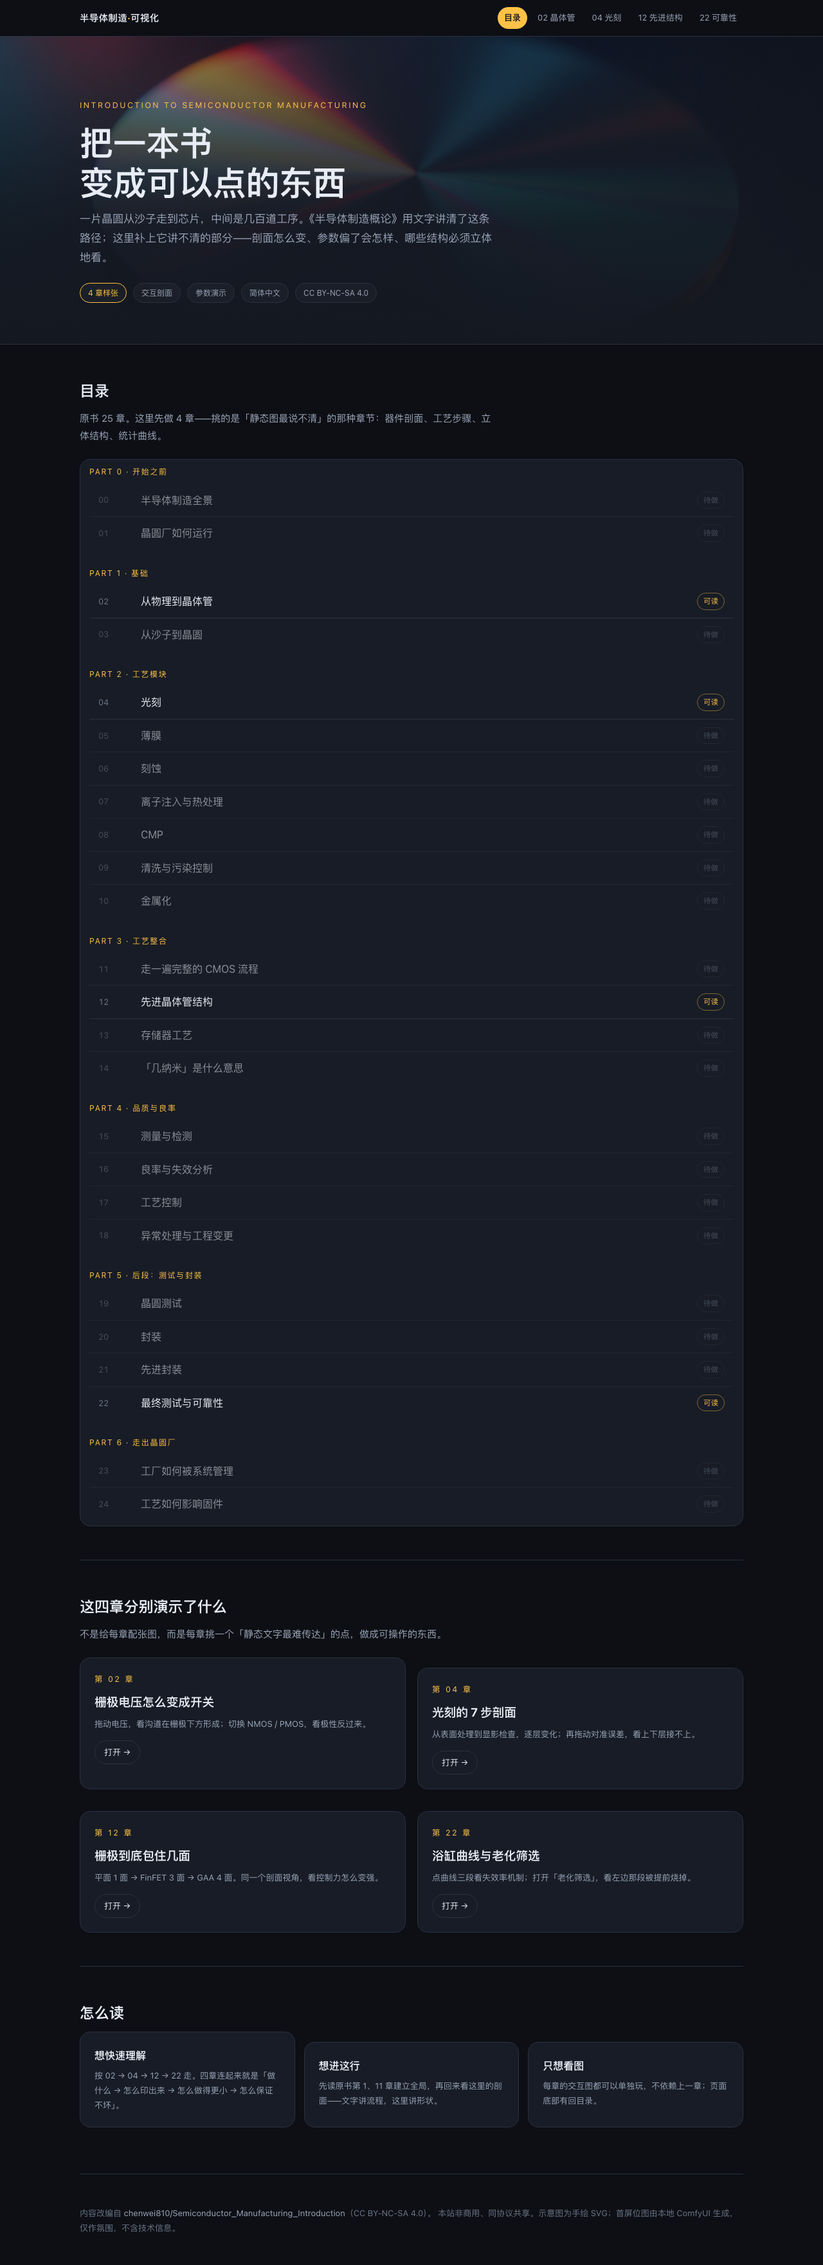
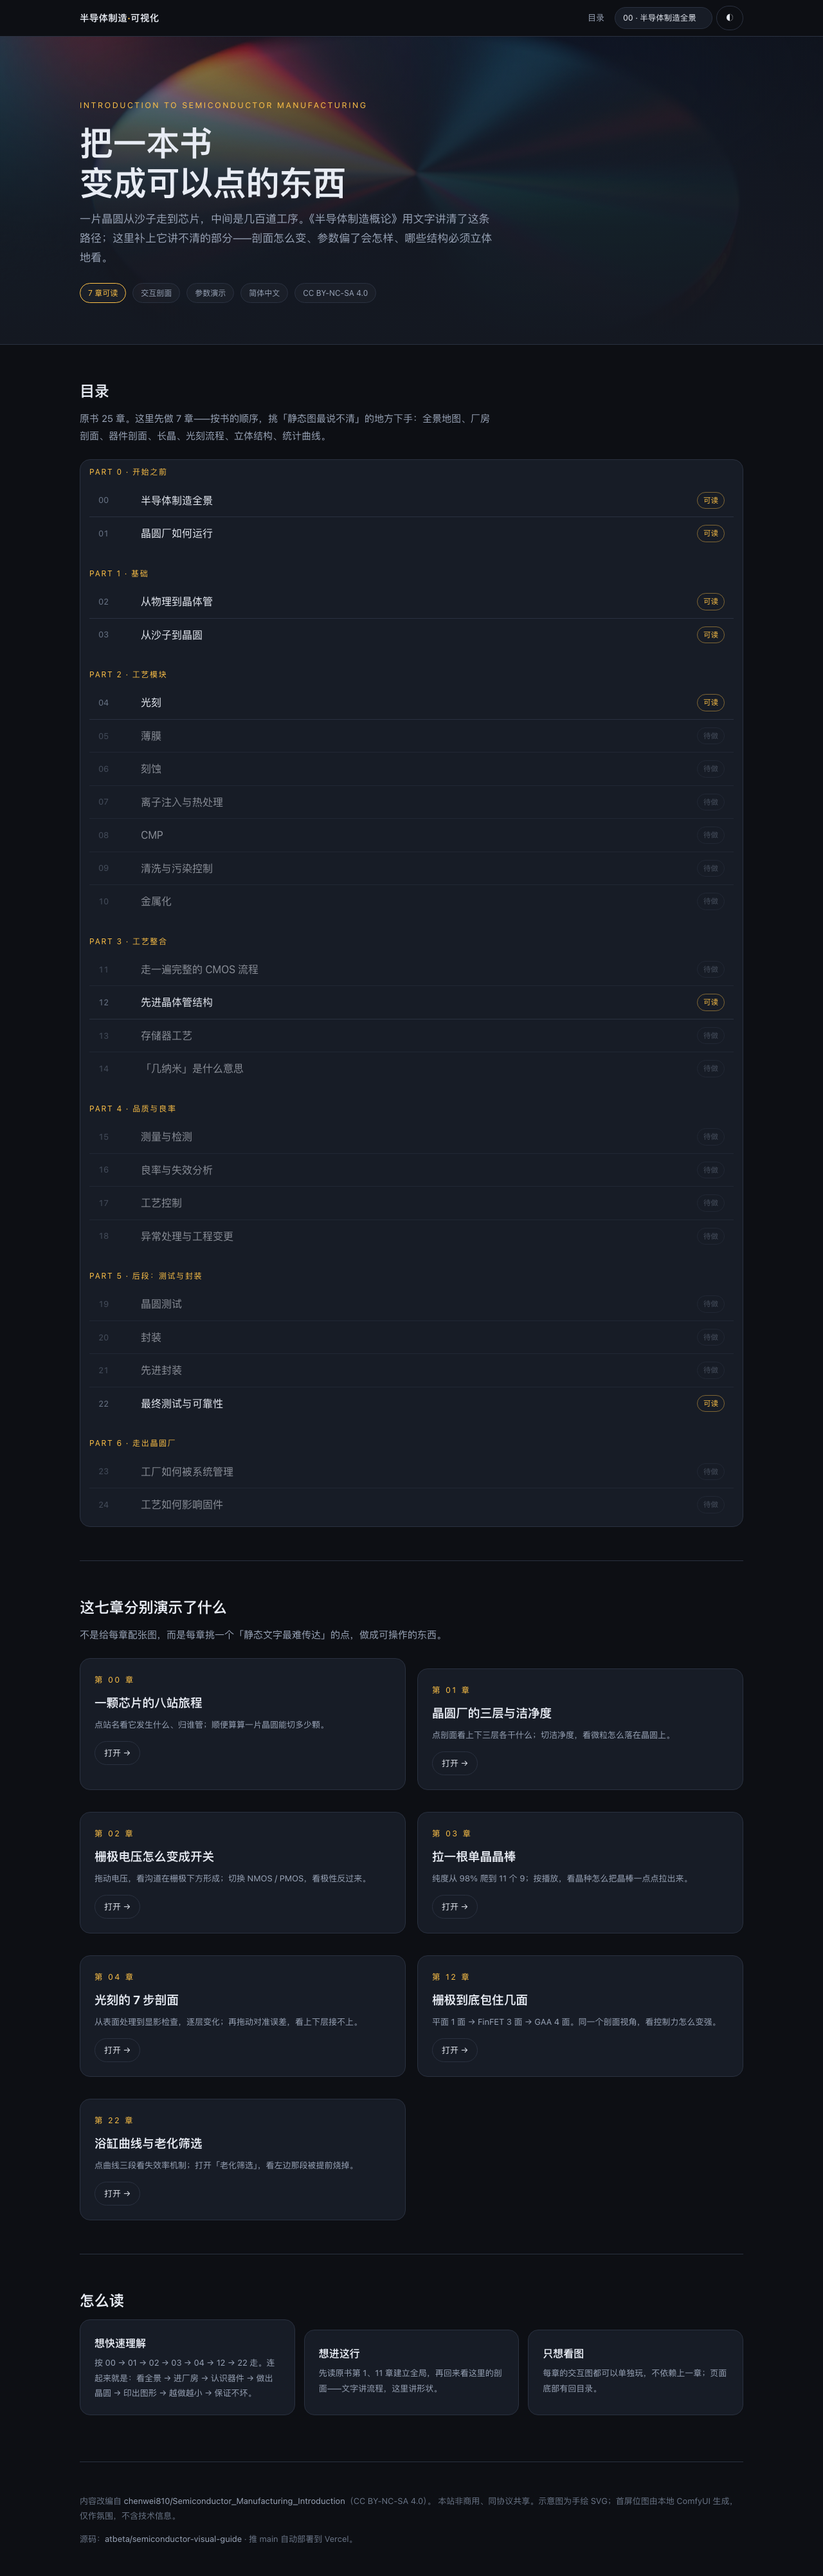
fix: 补 .stat 样式；更新首页截图

diff --git a/assets/styles.css b/assets/styles.css
@@ -195,3 +195,10 @@ footer a{color:var(--dim)}
   figure img{max-width:100%}
   .scrollx svg{min-width:620px}
 }
+
+/* 数据小卡 */
+.stat{display:grid;grid-template-columns:repeat(4,1fr);gap:14px;margin-top:8px}
+.stat > div{border:1px solid var(--line);border-radius:12px;padding:14px;min-width:0}
+.stat b{display:block;font-size:22px;line-height:1.25;color:var(--amber);font-variant-numeric:tabular-nums}
+.stat small{color:var(--dim);font-size:12px}
+@media(max-width:720px){.stat{grid-template-columns:repeat(2,1fr)}}
